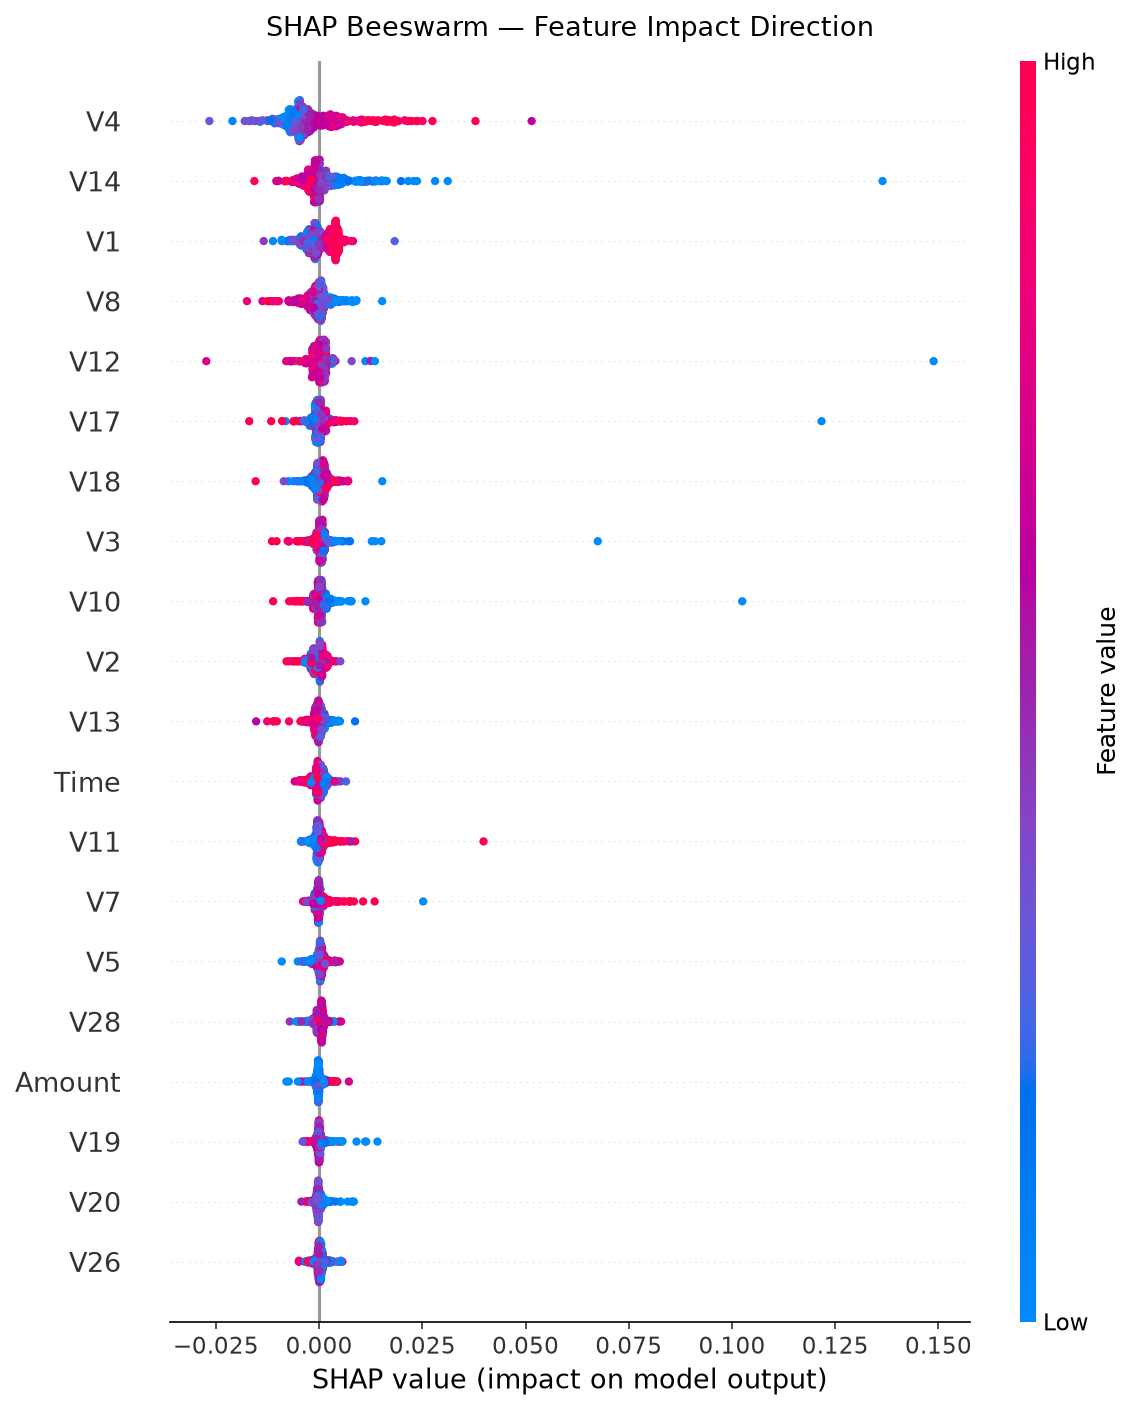
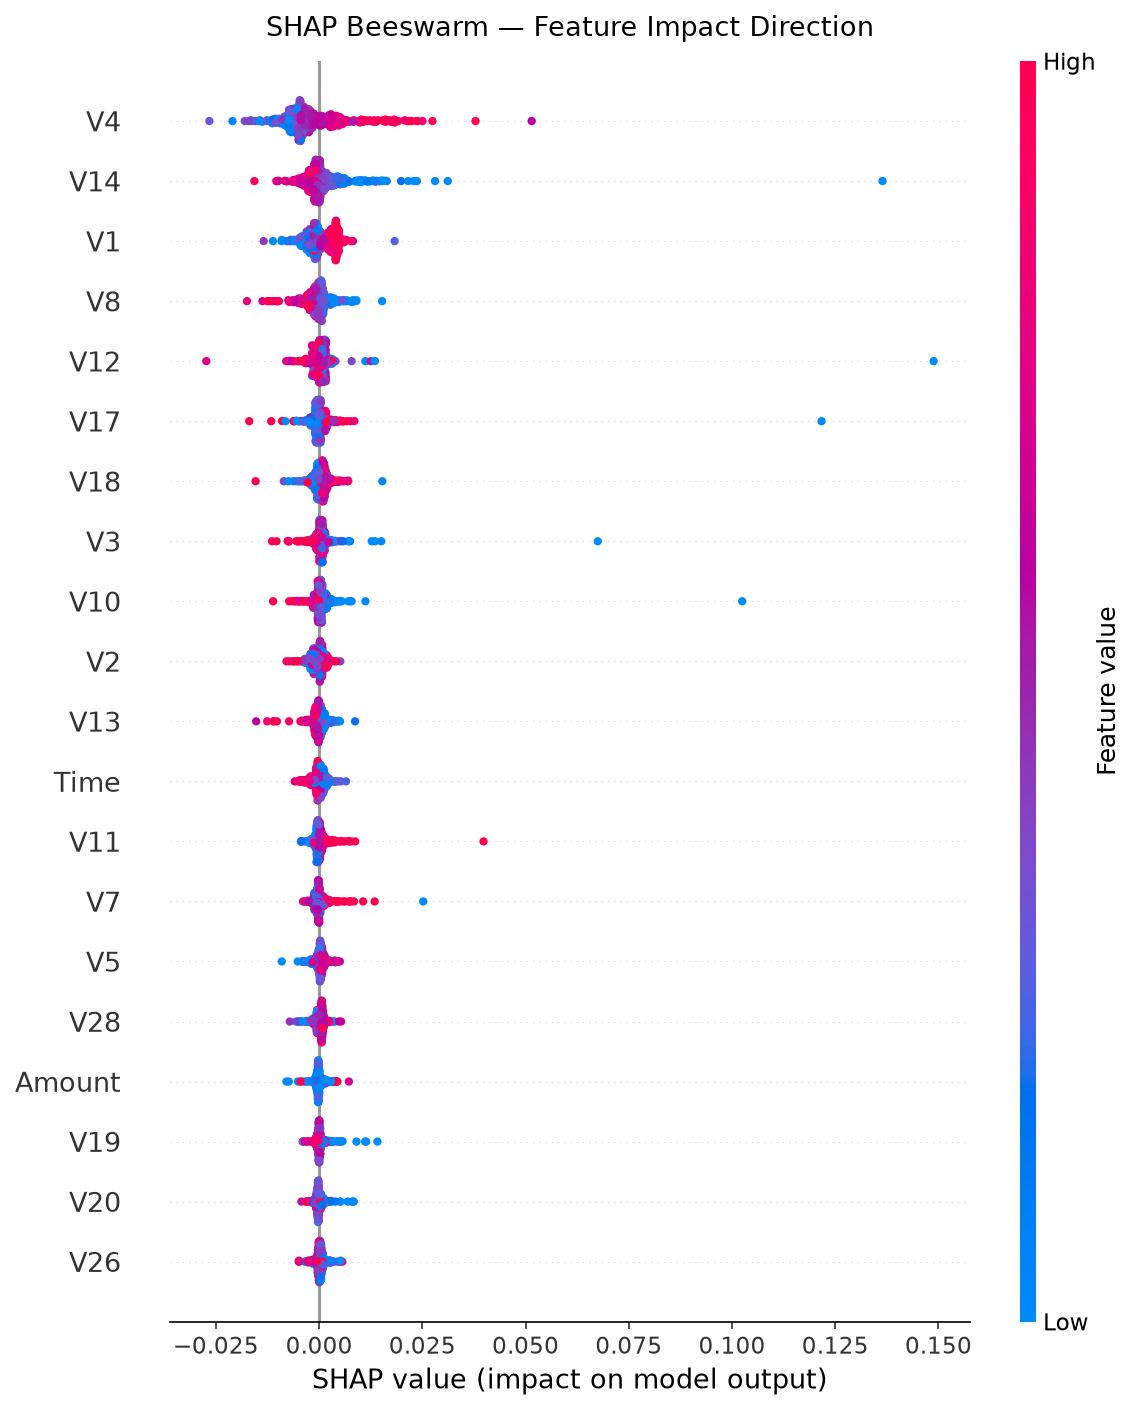
Fix: Log Tomek link removal count and clean non-ASCII chars in run_pipeline.py

Changed region(s): [[0.2157, 0.0624, 0.3081, 0.905]]

diff --git a/run_pipeline.py b/run_pipeline.py
@@ -64,13 +64,13 @@ print("Credit Card Fraud Detection Pipeline")
 print("=" * 70)
 
 # ── Phase 0: Verify environment ───────────────────────────────────────────────
-print("\n[Phase 0] Verifying environment …")
+print("\n[Phase 0] Verifying environment ...")
 config.MODELS_DIR.mkdir(exist_ok=True)
 config.FIGURES_DIR.mkdir(parents=True, exist_ok=True)
 config.DATA_PROCESSED_DIR.mkdir(parents=True, exist_ok=True)
 
 # ── Phase 1: Load + EDA summary ───────────────────────────────────────────────
-print("\n[Phase 1] Loading and validating dataset …")
+print("\n[Phase 1] Loading and validating dataset ...")
 from src.data_loader import load_raw_data, get_features_and_target
 import pandas as pd
 import numpy as np
@@ -99,7 +99,7 @@ if max_phase < 2:
     sys.exit(0)
 
 # ── Phase 2: Preprocessing + Baseline ─────────────────────────────────────────
-print("\n[Phase 2] Preprocessing + Logistic Regression baseline …")
+print("\n[Phase 2] Preprocessing + Logistic Regression baseline ...")
 from src.preprocessing import preprocess
 from src.train import build_logistic_regression, train_model, save_model
 from src.evaluate import evaluate_model, log_metrics_json
@@ -121,7 +121,7 @@ if max_phase < 3:
     sys.exit(0)
 
 # ── Phase 3: Imbalance strategies × model families ────────────────────────────
-print("\n[Phase 3] Training all strategy × model combinations …")
+print("\n[Phase 3] Training all strategy x model combinations ...")
 from src.resampling import RESAMPLING_STRATEGIES
 from src.train import build_random_forest, build_xgboost
 
@@ -135,7 +135,7 @@ all_metrics = []
 NEEDS_CLASS_WEIGHT = {"class_weight", "undersample"}
 
 for strategy_name, resample_fn in RESAMPLING_STRATEGIES.items():
-    print(f"\n  ── Strategy: {strategy_name} ──")
+    print(f"\n  === Strategy: {strategy_name} ===")
     X_res, y_res = resample_fn(X_train, y_train)
     use_cw = strategy_name in NEEDS_CLASS_WEIGHT
 
@@ -157,7 +157,7 @@ for strategy_name, resample_fn in RESAMPLING_STRATEGIES.items():
             best_model = model
             best_model_name = tag
             save_model(model, "best_model")
-            print(f"  ★ New best model: {tag} (AUPRC={best_auprc:.4f})")
+            print(f"  [BEST] New best model: {tag} (AUPRC={best_auprc:.4f})")
 
 print(f"\nBest model after Phase 3: {best_model_name} (AUPRC={best_auprc:.4f})")
 
@@ -165,7 +165,7 @@ if max_phase < 4:
     sys.exit(0)
 
 # ── Phase 4: Evaluation deep dive ─────────────────────────────────────────────
-print(f"\n[Phase 4] Evaluation deep dive for {best_model_name} …")
+print(f"\n[Phase 4] Evaluation deep dive for {best_model_name} ...")
 from src.evaluate import (
     plot_confusion_matrix, plot_pr_curve, plot_roc_curve, plot_threshold_sweep
 )
@@ -179,7 +179,7 @@ if max_phase < 5:
     sys.exit(0)
 
 # ── Phase 5: Cost analysis ────────────────────────────────────────────────────
-print("\n[Phase 5] Cost-sensitive threshold selection …")
+print("\n[Phase 5] Cost-sensitive threshold selection ...")
 from src.cost_analysis import run_cost_analysis
 
 cost_results = run_cost_analysis(best_model, X_test, y_test, df)
@@ -220,7 +220,7 @@ if max_phase < 6:
     sys.exit(0)
 
 # ── Phase 6: SHAP explainability ─────────────────────────────────────────────
-print("\n[Phase 6] SHAP explainability …")
+print("\n[Phase 6] SHAP explainability ...")
 from src.explain import run_explainability
 
 shap_results = run_explainability(best_model, X_train, X_test, y_test)
@@ -234,7 +234,7 @@ if max_phase < 7 or skip_autoencoder:
     sys.exit(0)
 
 # ── Phase 7: Autoencoder (stretch) ────────────────────────────────────────────
-print("\n[Phase 7] Autoencoder (unsupervised) …")
+print("\n[Phase 7] Autoencoder (unsupervised) ...")
 from src.autoencoder import run_autoencoder_pipeline
 
 ae_metrics, ae, ae_threshold = run_autoencoder_pipeline(X_train, X_test, y_train, y_test)

diff --git a/src/resampling.py b/src/resampling.py
@@ -104,6 +104,13 @@ def smote_tomek(
     """
     smt = SMOTETomek(tomek=TomekLinks(n_jobs=-1), random_state=config.RANDOM_STATE)
     X_res, y_res = smt.fit_resample(X_train, y_train)
+    
+    # Calculate exactly how many Tomek links were removed
+    majority_count = int((y_train == config.LEGIT_LABEL).sum())
+    expected_smote_size = 2 * majority_count
+    tomek_removed = expected_smote_size - len(y_res)
+    print(f"  [Tomek Cleaning] Removed {tomek_removed:,} borderline Tomek links from the oversampled set.")
+    
     _log_resample("SMOTETomek", y_train, y_res)
     return pd.DataFrame(X_res, columns=X_train.columns), pd.Series(y_res)
 
